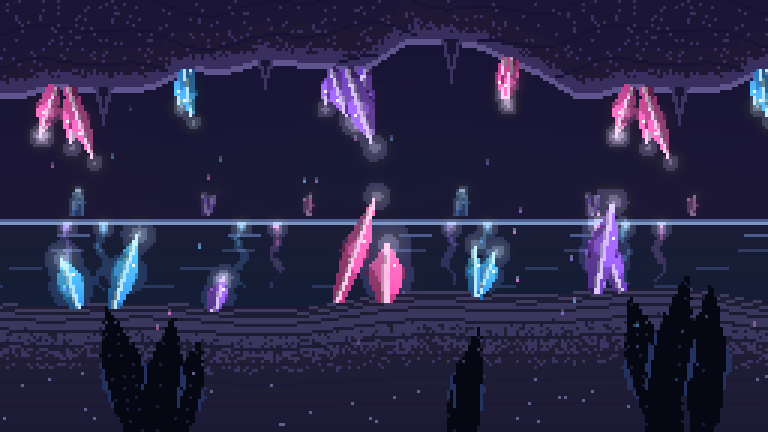
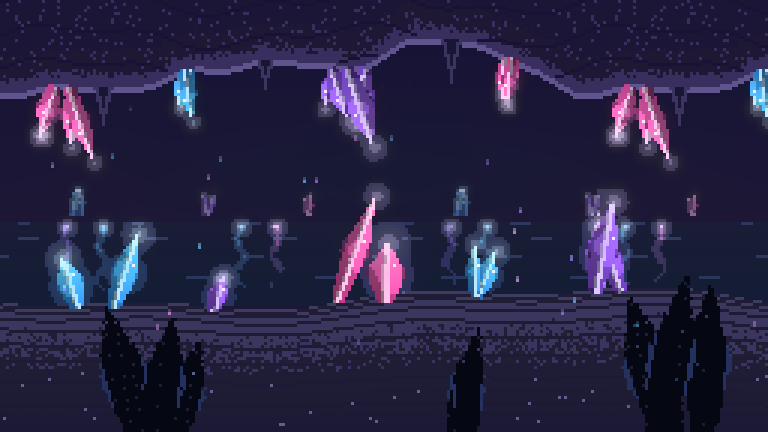
Weaken the waterline — no hard central line
The bright full-width waterline read as a strong horizontal line cutting the
screen in half. Replace it with a faint, broken shimmer along the water's far
edge (and slightly softer ripple lines), using period-locked phases so it stays
seamless. The lake surface now reads through its reflections and ripples.

diff --git a/src/background.js b/src/background.js
@@ -131,14 +131,17 @@ function lake(buf, off, t) {
       col = mix(col, HAZE, (1 - p) * 0.5);            // aerial haze, stronger far (top)
       buf.set(x, y, col);
     }
-    buf.set(x, WATER_TOP, [0.42, 0.52, 0.68]); buf.set(x, WATER_TOP - 1, [0.26, 0.32, 0.48]); // waterline
+    // faint broken waterline shimmer (no hard full-width line); periodic = seamless
+    const wph = TAU * (x + off) / period;
+    const s = Math.sin(5 * wph + t * TAU) * Math.sin(2 * wph - t * TAU);
+    if (s > 0.4) buf.add(x, WATER_TOP, [0.2, 0.28, 0.42], 0.3 * (s - 0.4) / 0.6);
   }
-  // horizontal ripple highlight lines drifting across the surface
-  for (const ry of [4, 9, 15, 21]) {
+  // subtle horizontal ripple highlight lines drifting across the surface
+  for (const ry of [5, 11, 18]) {
     const y = WATER_TOP + ry, p = ry / (WATER_BOT - WATER_TOP);
     for (let x = 0; x < W; x++) {
-      const s = Math.sin((x + off * (1 + p)) * 0.11 + ry * 1.3 + t * TAU);
-      if (s > 0.82) buf.add(x, y, [0.45, 0.56, 0.76], 0.35 * (1 - p));
+      const s = Math.sin(TAU * (x + off) / period * 3 + ry * 1.3 + t * TAU);
+      if (s > 0.86) buf.add(x, y, [0.4, 0.5, 0.7], 0.28 * (1 - p));
     }
   }
   // soft colour reflections shimmering down from the surface (light columns)
